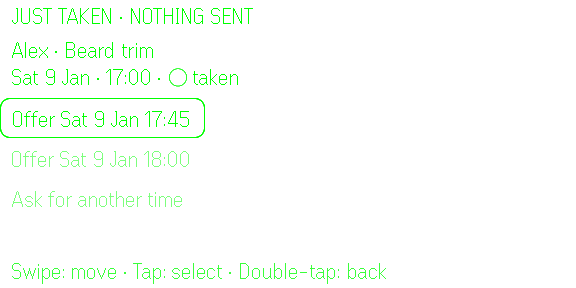
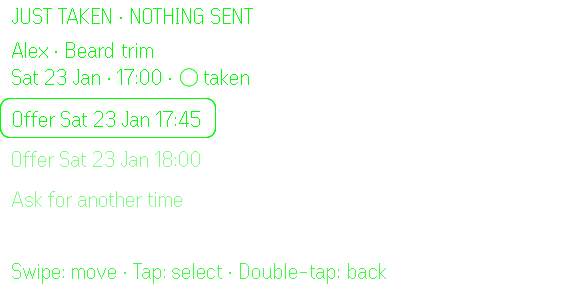
evidence(US-015): final live run for the video (Sat 23 Jan 2027)
Take 8 of npm run smoke:live passed all 57 checks on 2026-11-26 with the
recording layout used for the demo video: pairing from scratch, Moment 1
(one press books Alex at 15:00), Moment 2 (offer 16:00, James types yes,
recheck, booked), Moment 3 (Busy block lands while the card shows 17:00
free; slot_taken, nothing sent, no event, next opening 17:45) and the
reconnect. This replaces the take 6 evidence from 75cfa04 (same checks,
booking day Sat 9 Jan), because the video is cut from this run.

The server ran with CALLBACKS_SUPPORTED=false set in the shell, as
LIVE_SMOKE.md describes, so James could only accept by typing.

diff --git a/docs/evidence/live-smoke.md b/docs/evidence/live-smoke.md
@@ -1,6 +1,6 @@
 # Live end-to-end smoke (US-015)
 
-Run 2026-11-26T05:41:49.464Z to 2026-11-26T05:45:33.640Z by `npm run smoke:live` (`scripts/smoke-live.mjs`): real Telegram (`business` mode) and real Google Calendar; the glasses are the Even Hub simulator, not G2 hardware. Shop config `shop.recording.json` (America/New_York), booking day 2027-01-09 (Saturday 9 Jan). Node v24.13.0 on win32.
+Run 2026-11-26T06:07:08.271Z to 2026-11-26T06:12:23.313Z by `npm run smoke:live` (`scripts/smoke-live.mjs`): real Telegram (`business` mode) and real Google Calendar; the glasses are the Even Hub simulator, not G2 hardware. Shop config `shop.recording.json` (America/New_York), booking day 2027-01-23 (Saturday 23 Jan). Node v24.13.0 on win32.
 
 Result: **PASS**
 
@@ -10,55 +10,55 @@ Recorded: Telegram message ids, Chairside request and action ids, calendar event
 
 | Interval | Seconds |
 | --- | --- |
-| Customer's DM (Telegram timestamp) to the card on the glasses. Telegram timestamps are whole seconds, so this reads up to 1 s high; it includes the 2.5 s wait for follow-up messages | 3.46 |
-| DM received by the server to the card on the glasses | 2.8 |
-| Tap to the server holding the action | 0.02 |
-| Tap to the reply sent (Telegram confirmed it) | 0.99 |
-| Tap to the receipt on the glasses | 1.21 |
-| The whole glasses workflow: DM (Telegram timestamp) to the reply sent, with the card held 3 s before the tap as the owner's reading time | 7.74 |
+| Customer's DM (Telegram timestamp) to the card on the glasses. Telegram timestamps are whole seconds, so this reads up to 1 s high; it includes the 2.5 s wait for follow-up messages | 2.98 |
+| DM received by the server to the card on the glasses | 2.81 |
+| Tap to the server holding the action | 0.03 |
+| Tap to the reply sent (Telegram confirmed it) | 1.17 |
+| Tap to the receipt on the glasses | 1.39 |
+| The whole glasses workflow: DM (Telegram timestamp) to the reply sent, with the card held 3 s before the tap as the owner's reading time | 7.46 |
 
 Server-side times come from the server's own records. Those records do not tie an update to a chat, so a message from another chat at the same moment could shift the received times.
 
 ## Pairing from scratch
 
-- Simulator launch to the app ready: 0.84 s; to a pairing code on the glasses: 0.74 s.
-- Code shown to paired (the owner typed `/pair CODE` in the bot chat): 20.15 s.
+- Simulator launch to the app ready: 0.8 s; to a pairing code on the glasses: 0.75 s.
+- Code shown to paired (the owner typed `/pair CODE` in the bot chat): 46.28 s.
 - Paired to the live channel: 0.01 s.
 
 ## Moment 1: one tap books it
 
-- DM message id(s): `325267`; request `3d02d92e-223d-4611-8afa-3de873771cb2`; parsed book, haircut, Sat 9 Jan 15:00.
-- Tap result: ok. Reply message id 325268; action `29f4c174-ae3a-40fb-a70d-4601cd5b7915`.
-- Calendar event `l0so8a6c37nll4njmbq1k5641o` at Sat 9 Jan 15:00-15:45, read back from Google Calendar: true.
+- DM message id(s): `325287`; request `a561f2b4-c78a-4074-91e6-dba4e3993c69`; parsed book, haircut, Sat 23 Jan 15:00.
+- Tap result: ok. Reply message id 325288; action `226dfc7e-b0ed-4025-abad-c8411e6d8f78`.
+- Calendar event `rt6gnmgrobkknpgjmq3ghlsfae` at Sat 23 Jan 15:00-15:45, read back from Google Calendar: true.
 
 ## Moment 2: slot taken, offer, "yes"
 
-- DM message id(s): `325269`; request `d3b04073-fca6-4ded-bd2e-146856a89aae`; DM to card 3.58 s (Telegram timestamp).
-- Offer for Sat 9 Jan 16:00-16:45: message id 325270; offer status after the tap active.
-- James typed a reply that accepted the offer (asked to type "yes"; message id(s) `325271`); booking confirmation message id 325272; offer status accepted.
-- Calendar event `784005rvmlla4fajs0oroo71o1` at Sat 9 Jan 16:00-16:45, read back from Google Calendar: true. "Yes" received to the booking confirmed: 3.62 s.
+- DM message id(s): `325289`; request `feccb718-7992-4da1-a456-09e65b23ed2b`; DM to card 3.28 s (Telegram timestamp).
+- Offer for Sat 23 Jan 16:00-16:45: message id 325290; offer status after the tap active.
+- James typed a reply that accepted the offer (asked to type "yes"; message id(s) `325291`); booking confirmation message id 325292; offer status accepted.
+- Calendar event `i3031o3vmvb97dkeakubof5s10` at Sat 23 Jan 16:00-16:45, read back from Google Calendar: true. "Yes" received to the booking confirmed: 3.91 s.
 
 ## Moment 3: the slot is taken while the card is on screen
 
-- Request `5c4727eb-b91f-48ad-bfc5-f0ddd74a1bbf`; the card showed Sat 9 Jan 17:00 free.
-- Foreign block `tm96htku57t3fsrprt5hac93iv` inserted at 2027-01-09 17:00-17:30 before the tap.
-- Tap result: slot_taken; the card came back as version 2, offering Sat 9 Jan 17:45.
+- Request `11c06dc8-b231-4a57-9bcd-17b4b9a81192`; the card showed Sat 23 Jan 17:00 free.
+- Foreign block `1lo71igjingqnums4fal48kg9p` inserted at 2027-01-23 17:00-17:30 before the tap.
+- Tap result: slot_taken; the card came back as version 2, offering Sat 23 Jan 17:45.
 
 | Count | Before the tap | After the tap |
 | --- | --- | --- |
 | Messages below the customer's question in the chat (operator count from the screen; the Bot API cannot read chat history) | 0 | 0 |
-| Messages Chairside has sent in this customer's thread (server records) | 8 | 8 |
-| Events on 2027-01-09 in Google Calendar, excluding the block | 2 | 2 |
+| Messages Chairside has sent in this customer's thread (server records) | 10 | 10 |
+| Events on 2027-01-23 in Google Calendar, excluding the block | 2 | 2 |
 
 ## Reconnect
 
-- Server stopped at 2026-11-26T05:44:30.030Z; the glasses showed the status screen after 2.3 s.
-- Server restarted at 2026-11-26T05:44:32.639Z and listening after 1.9 s; the glasses were back on root 4.25 s after the restart (link states: link=connecting, link=offline, link=polling). No pairing asked: true.
+- Server stopped at 2026-11-26T06:11:57.942Z; the glasses showed the status screen after 2.13 s.
+- Server restarted at 2026-11-26T06:12:00.376Z and listening after 1.62 s; the glasses were back on root 2.23 s after the restart (link states: link=connecting, link=offline, link=live). No pairing asked: true.
 - A new DM after the restart opened a card: true.
 
 ## Clean start
 
-- `demo:reset` equivalent removed 0 demo event(s); seeded: `1gt9svtj0jsb2372qbucjg412u` 2026-11-26 14:00-14:45; `p07cmhnlq9tlf293hgbv70o7t2` 2026-11-26 16:15-16:35.
+- `demo:reset` equivalent removed 0 demo event(s); seeded: `ti2fv8elakq7b60mj7gvap03f5` 2026-11-26 14:00-14:45; `o8tics77uhqrlsjij7m018vu66` 2026-11-26 16:15-16:35.
 - Cleanup at the end: removed this run's 3 demo event(s) (the seeded appointments and the Moment 3 block); the Moment 1 and 2 bookings stay; the last DM stays as a waiting card.
 
 ## Checks
@@ -69,23 +69,23 @@ Server-side times come from the server's own records. Those records do not tie a
 - PASS: Moment 1: the card is from Alex (exact Telegram first name; the screenshots are public evidence)
 - PASS: Moment 1: Alex writes from a different account than the other customer
 - PASS: Moment 1: the card carries a new message from this run
-- PASS: Moment 1 parsed a haircut at 15:00 (got book, haircut, Sat 9 Jan 15:00)
+- PASS: Moment 1 parsed a haircut at 15:00 (got book, haircut, Sat 23 Jan 15:00)
 - PASS: Moment 1: the card did not change during the hold (version 1, pending)
-- PASS: Moment 1: the highlighted action is Book & reply at 15:00 (got book Sat 9 Jan 15:00)
+- PASS: Moment 1: the highlighted action is Book & reply at 15:00 (got book Sat 23 Jan 15:00)
 - PASS: Moment 1: the glasses still show this card with its first action selected
 - PASS: Moment 1 tap answered ok (got ok)
 - PASS: Moment 1 reply sent: Telegram returned a message id
 - PASS: Moment 1 booking recorded
-- PASS: Moment 1 booked 15:00 (got Sat 9 Jan 15:00-15:45)
+- PASS: Moment 1 booked 15:00 (got Sat 23 Jan 15:00-15:45)
 - PASS: Moment 1 event read back from Google Calendar
 - PASS: Moment 2: the server holds the request behind the card
 - PASS: Moment 2: the card comes from a declared test customer chat (SMOKE_CUSTOMER_IDS)
 - PASS: Moment 2: the card is from James (exact Telegram first name; the screenshots are public evidence)
 - PASS: Moment 2: James writes from a different account than the other customer
 - PASS: Moment 2: the card carries a new message from this run
-- PASS: Moment 2 parsed a skin fade at 15:00 (got book, skin_fade, Sat 9 Jan 15:00)
+- PASS: Moment 2 parsed a skin fade at 15:00 (got book, skin_fade, Sat 23 Jan 15:00)
 - PASS: Moment 2: the card did not change during the hold (version 1, pending)
-- PASS: Moment 2: the highlighted action is an offer later that afternoon (got offer Sat 9 Jan 16:00)
+- PASS: Moment 2: the highlighted action is an offer later that afternoon (got offer Sat 23 Jan 16:00)
 - PASS: Moment 2: the glasses still show this card with its first action selected
 - PASS: Moment 2 offer tap answered ok (got ok)
 - PASS: Moment 2 offer sent: Telegram returned a message id
@@ -93,7 +93,7 @@ Server-side times come from the server's own records. Those records do not tie a
 - PASS: Moment 2 "yes" booked it and the confirmation went out (status ok, state sent)
 - PASS: Moment 2 confirmation sent: Telegram returned a message id
 - PASS: Moment 2 booking recorded
-- PASS: Moment 2 booked the offered time (got Sat 9 Jan 16:00-16:45)
+- PASS: Moment 2 booked the offered time (got Sat 23 Jan 16:00-16:45)
 - PASS: Moment 2 event read back from Google Calendar
 - PASS: Moment 2 offer marked accepted (got accepted)
 - PASS: Moment 3: the server holds the request behind the card
@@ -101,14 +101,14 @@ Server-side times come from the server's own records. Those records do not tie a
 - PASS: Moment 3: the card is from Alex (exact Telegram first name; the screenshots are public evidence)
 - PASS: Moment 3: Alex writes from the same chat as before
 - PASS: Moment 3: the card carries a new message from this run
-- PASS: Moment 3 parsed a beard trim at 17:00 (got book, beard_trim, Sat 9 Jan 17:00)
+- PASS: Moment 3 parsed a beard trim at 17:00 (got book, beard_trim, Sat 23 Jan 17:00)
 - PASS: Moment 3: the card did not change during the hold (version 1, pending)
-- PASS: Moment 3: the highlighted action is Book & reply at 17:00 (got book Sat 9 Jan 17:00)
+- PASS: Moment 3: the highlighted action is Book & reply at 17:00 (got book Sat 23 Jan 17:00)
 - PASS: Moment 3: the glasses still show this card with its first action selected
 - PASS: Moment 3 tap answered slot_taken (got slot_taken)
-- PASS: Moment 3 the card now offers the next opening (got offer Sat 9 Jan 17:45)
+- PASS: Moment 3 the card now offers the next opening (got offer Sat 23 Jan 17:45)
 - PASS: Moment 3 Alex's thread did not change (operator count before 0, after 0)
-- PASS: Moment 3 sent no message (before 8, after 8)
+- PASS: Moment 3 sent no message (before 10, after 10)
 - PASS: Moment 3 wrote no event (before 2, after 2)
 - PASS: Moment 3 has no reply id and no booking row
 - PASS: the restart did not ask to pair again
@@ -138,28 +138,28 @@ Server-side times come from the server's own records. Those records do not tie a
 
 ## Timeline (UTC, for cutting the screen recording)
 
-- 2026-11-26T05:41:51.293Z clean start: removed 0 demo event(s), seeded 2
-- 2026-11-26T05:41:53.407Z server listening after 1.8 s
-- 2026-11-26T05:41:53.845Z launching the simulator with fresh storage (pairing from scratch)
-- 2026-11-26T05:41:54.943Z waiting for the owner to pair
-- 2026-11-26T05:42:15.057Z paired
-- 2026-11-26T05:42:15.061Z waiting for the Moment 1 DM
-- 2026-11-26T05:42:26.494Z Moment 1 card shown (request 3d02d92e-223d-4611-8afa-3de873771cb2)
-- 2026-11-26T05:42:29.754Z tap (request 3d02d92e-223d-4611-8afa-3de873771cb2)
-- 2026-11-26T05:42:33.011Z Moment 1 done
-- 2026-11-26T05:42:33.012Z waiting for the Moment 2 DM
-- 2026-11-26T05:43:00.604Z Moment 2 card shown (request d3b04073-fca6-4ded-bd2e-146856a89aae)
-- 2026-11-26T05:43:03.873Z tap (request d3b04073-fca6-4ded-bd2e-146856a89aae)
-- 2026-11-26T05:43:04.646Z waiting for the "yes"
-- 2026-11-26T05:43:14.303Z offer accepted
-- 2026-11-26T05:43:16.131Z Moment 2 done
-- 2026-11-26T05:43:16.132Z waiting for the Moment 3 DM
-- 2026-11-26T05:43:32.600Z Moment 3 card shown (request 5c4727eb-b91f-48ad-bfc5-f0ddd74a1bbf)
-- 2026-11-26T05:43:33.246Z foreign block inserted at 2027-01-09 17:00-17:30
-- 2026-11-26T05:44:19.102Z tap (request 5c4727eb-b91f-48ad-bfc5-f0ddd74a1bbf)
-- 2026-11-26T05:44:30.030Z Moment 3 done
-- 2026-11-26T05:44:31.286Z server stopped
-- 2026-11-26T05:44:34.537Z server restarted
-- 2026-11-26T05:44:37.180Z waiting for the post-restart DM
-- 2026-11-26T05:45:30.366Z post-restart card shown (request 99ee4610-50dd-426a-8aa7-82958ed00de2)
-- 2026-11-26T05:45:30.609Z reconnect done
+- 2026-11-26T06:07:10.049Z clean start: removed 0 demo event(s), seeded 2
+- 2026-11-26T06:07:12.311Z server listening after 1.9 s
+- 2026-11-26T06:07:12.716Z launching the simulator with fresh storage (pairing from scratch)
+- 2026-11-26T06:07:13.786Z waiting for the owner to pair
+- 2026-11-26T06:08:00.041Z paired
+- 2026-11-26T06:08:00.045Z waiting for the Moment 1 DM
+- 2026-11-26T06:09:50.995Z Moment 1 card shown (request a561f2b4-c78a-4074-91e6-dba4e3993c69)
+- 2026-11-26T06:09:54.291Z tap (request a561f2b4-c78a-4074-91e6-dba4e3993c69)
+- 2026-11-26T06:09:57.761Z Moment 1 done
+- 2026-11-26T06:09:57.762Z waiting for the Moment 2 DM
+- 2026-11-26T06:10:51.389Z Moment 2 card shown (request feccb718-7992-4da1-a456-09e65b23ed2b)
+- 2026-11-26T06:10:54.625Z tap (request feccb718-7992-4da1-a456-09e65b23ed2b)
+- 2026-11-26T06:10:55.531Z waiting for the "yes"
+- 2026-11-26T06:11:07.915Z offer accepted
+- 2026-11-26T06:11:09.819Z Moment 2 done
+- 2026-11-26T06:11:09.820Z waiting for the Moment 3 DM
+- 2026-11-26T06:11:41.399Z Moment 3 card shown (request 11c06dc8-b231-4a57-9bcd-17b4b9a81192)
+- 2026-11-26T06:11:42.265Z foreign block inserted at 2027-01-23 17:00-17:30
+- 2026-11-26T06:11:55.420Z tap (request 11c06dc8-b231-4a57-9bcd-17b4b9a81192)
+- 2026-11-26T06:11:57.942Z Moment 3 done
+- 2026-11-26T06:11:59.050Z server stopped
+- 2026-11-26T06:12:01.994Z server restarted
+- 2026-11-26T06:12:02.901Z waiting for the post-restart DM
+- 2026-11-26T06:12:20.277Z post-restart card shown (request e7f93065-b792-46f9-8d10-4a2de6f10b28)
+- 2026-11-26T06:12:20.517Z reconnect done
